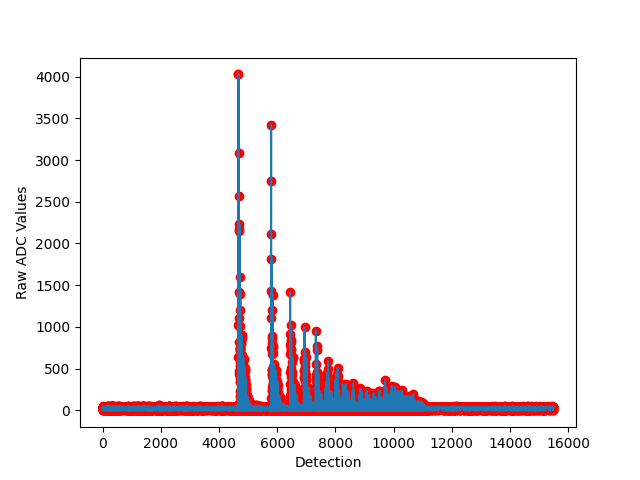
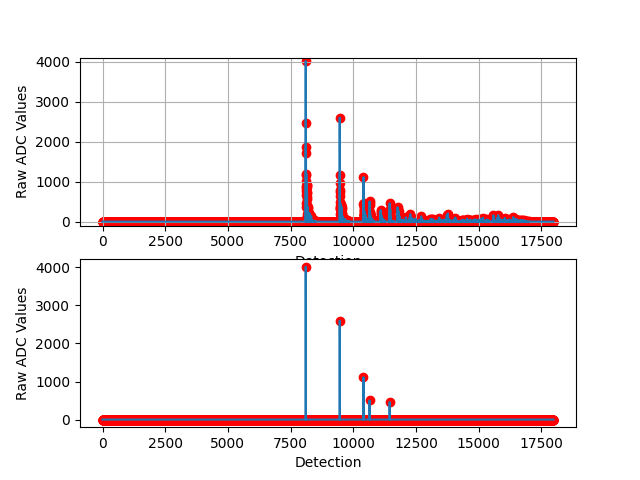
Update

diff --git a/main.py b/main.py
@@ -14,23 +14,18 @@ SAMPLE_RATE = 5062
 SAMPLING_RATE = SAMPLE_RATE/TIME  # Number of samples / Time Period 
 
 # FREQUENCY THRESHOLD
-FREQ_THRESHOLD = 150 
+FREQ_THRESHOLD = 120 
 
 # ERASER PARAMETERS  
 # HEIGHT LENGTH   
-ERASER_H_L_PARAM_30_10 = 1 
-ERASER_H_L_PARAM_30_30 = 1 
-ERASER_H_L_PARAM_10_10 = 1 
-ERASER_H_L_PARAM_10_30 = 1 
+ERASER_HEIGHT_30 = 800
+ERASER_LENGTH_30 = 1700  
+ERASER_LENGTH_10 = 18 
 
 # COIN PARAMETERS 
 # HEIGHT LENGTH 
-COIN_H_L_PARAM_10_30 = 114
-COIN_H_L_PARAM_30_30 = 127
-COIN_H_L_PARAM_10_10 = 140
-COIN_H_L_PARAM_30_10 = 160
+COIN_HEIGHT_30 = 2000
 
-COIN_HEIGHT_30 = 2900
 PEAK_THRESHOLD = 1500 
 
 
@@ -239,36 +234,47 @@ def visualize_data(list,material,height,length) :
     plt.show()
     # plot the raw data 
     
-def predict(freq,amp,numOfPeaks,area):
+def predict(freq,avg_amp,amp,numOfPeaks,numPeakAbove): 
     
     # if eraser  
+    print(f"Freq {freq}")
+    ratio = amp/avg_amp
     if freq < FREQ_THRESHOLD : 
         
         print("Eraser")
-        # if avg_amp < ERASER_H_L_PARAM_10_30 : 
-        #     print("ERASER: HEIGHT = 10 CM, LENGTH = 30 CM")
-            
-        # elif avg_amp > ERASER_H_L_PARAM_10_30 and avg_amp < ERASER_H_L_PARAM_30_30: 
-        #     print("ERASER: HEIGHT = 30 CM, LENGTH = 30 CM")
-            
-        # elif avg_amp > ERASER_H_L_PARAM_30_30 and avg_amp < ERASER_H_L_PARAM_10_10: 
-        #     print("ERASER: HEIGHT = 10 CM, LENGTH = 10 CM")
-            
-        # elif avg_amp > ERASER_H_L_PARAM_10_10 and avg_amp < ERASER_H_L_PARAM_30_10: 
-        #     print("ERASER: HEIGHT = 30 CM, LENGTH = 10 CM")
         
+        if amp > ERASER_HEIGHT_30 : 
+            print(amp)
+            print("30 CM Height Drop")
+            
+            if amp < ERASER_LENGTH_30 : 
+                print("30 CM Length Drop")
+            
+            else : 
+                print("10 CM Length Drop")
+                
+        # 10 cm height       
+        else : 
+            print(amp)
+            print("10 CM Height Drop")
+            if ratio < ERASER_LENGTH_10 : 
+                print("30 CM Length Drop")
+                
+            else : 
+                print("10 CM Length Drop")
+                    
     # if coin 
     else : 
         print("Coin")
-        print(f"area {area}")
         print(f"numOfPeaks {numOfPeaks}")
+        print(f"numOfPeaks {numPeakAbove}")
         
         if amp > COIN_HEIGHT_30 : 
             print(amp)
             print("30 CM Height Drop")
-            print(f"AREA x Peak = {area*numOfPeaks}")
+
             
-            if area*numOfPeaks >= 5000000 : 
+            if numPeakAbove/numOfPeaks <= 0.4 : 
                 print("30 CM Length")
                 
             else :
@@ -278,12 +284,13 @@ def predict(freq,amp,numOfPeaks,area):
         else : 
             print(amp)
             print("10 CM Height Drop")
+            
+            if numPeakAbove/numOfPeaks <= 0.5 : 
+                print("30 CM Length")
+                
+            else :
+                print("10 CM Length")
         
-        
-        
-        
-        
-
         # # Safeguard: High amplitude around 4000 is very likely LENGTH = 10
         # if amp >= 3950:
         #     if avg_amp > 145:
@@ -308,40 +315,97 @@ def predict(freq,amp,numOfPeaks,area):
         #     else:
         #         print("COIN: UNKNOWN — out of trained range")
          
-def numOfPeaks(adc_values) :
+# def numOfPeaks(adc_values) :
 
-    peak = None 
-    zero = 0 
-    peak_counter = 0 
+#     peak = None 
+#     zero = 0 
+#     peak_counter = 0 
     
-    for idx in range (len(adc_values)-1) : 
+#     for idx in range (len(adc_values)-1) : 
         
-        # Ignore the first data         
-        if idx > 0 : 
-            # If this a peak 
-            if (adc_values[idx] > adc_values[idx+1]) and (adc_values[idx] > adc_values[idx-1]) : 
+#         # Ignore the first data         
+#         if idx > 0 : 
+#             # If this a peak 
+#             if (adc_values[idx] > adc_values[idx+1]) and (adc_values[idx] > adc_values[idx-1]) : 
                 
-                # if data_count is 0 means this is the first peak 
-                if peak == None and zero == 0 : 
-                    peak = adc_values[idx]
+#                 # if data_count is 0 means this is the first peak 
+#                 if peak == None and zero == 0 : 
+#                     peak = adc_values[idx]
                     
-                    if adc_values[idx] > PEAK_THRESHOLD : 
-                        peak_counter += 1 
+#                     if adc_values[idx] > PEAK_THRESHOLD : 
+#                         peak_counter += 1 
                     
-                # not the first peak 
-                elif zero == 0 : 
-                    peak = adc_values[idx]
+#                 # not the first peak 
+#                 elif zero == 0 : 
+#                     peak = adc_values[idx]
                     
-                    if adc_values[idx] > PEAK_THRESHOLD : 
-                        peak_counter += 1 
+#                     if adc_values[idx] > PEAK_THRESHOLD : 
+#                         peak_counter += 1 
                         
-                zero = adc_values[idx]
+#                 zero = adc_values[idx]
                     
-            if adc_values[idx] == 0 : 
-                zero = 0 
+#             if adc_values[idx] == 0 : 
+#                 zero = 0 
     
-    return peak_counter
- 
+#     print(f"Number of Peak {peak_counter}") 
+#     return peak_counter
+
+# def numOfPeaksAboveThreshold(adc_values,max_amp) :
+
+#     peak = None 
+#     zero = 0 
+#     peak_counter = 0 
+    
+#     for idx in range (len(adc_values)-1) : 
+        
+#         # Ignore the first data         
+#         if idx > 0 : 
+#             # If this a peak 
+#             if (adc_values[idx] > adc_values[idx+1]) and (adc_values[idx] > adc_values[idx-1]) : 
+                
+#                 # if data_count is 0 means this is the first peak 
+#                 if peak == None and zero == 0 : 
+#                     peak = adc_values[idx]
+                    
+#                     if adc_values[idx] > PEAK_THRESHOLD : 
+#                         if adc_values[idx] > max_amp/2 : 
+#                             peak_counter += 1 
+                    
+#                 # not the first peak 
+#                 elif zero == 0 : 
+#                     peak = adc_values[idx]
+                    
+#                     if adc_values[idx] > PEAK_THRESHOLD : 
+#                         if adc_values[idx] > max_amp/2 : 
+#                             peak_counter += 1 
+                        
+#                 zero = adc_values[idx]
+                    
+#             if adc_values[idx] == 0 : 
+#                 zero = 0 
+    
+#     print(f"Number of Peak Above Thres {peak_counter}") 
+#     return peak_counter
+def numOfPeaks(adc_values) :
+    non_zero_list = [x for x in adc_values if x != 0]
+    
+    print(f"NUM PEAKS {len(non_zero_list)}")
+    return len(non_zero_list)
+    
+    
+    
+def numOfPeaksAboveThreshold(adc_values,max_amp) :
+    non_zero_list = [x for x in adc_values if x != 0]
+    counter = 0 
+    
+    for i in non_zero_list : 
+        if i >= max_amp * 0.4 : 
+            counter += 1 
+    
+    print(f"NUM OF PEAKS ABOVE Thres:{max_amp*0.4} is {counter}") 
+    return counter 
+            
+
 def areaUnderGraph(adc_values): 
     x = np.arange(0,len(adc_values),1)
     
@@ -363,7 +427,7 @@ def p2p(adc_values) :
     for idx in range(1, len(adc_copy) - 1):
         
         # If less than 500 we ignore 
-        if adc_copy[idx] <= 500:
+        if adc_copy[idx] <= 400:
             counter += 1
             adc_copy[idx] = 0 
         else:
@@ -409,7 +473,7 @@ def diff_between_peaks(adc_values) :
         diff = abs(diff)
         diff_list.append(float(diff))
         
-    print(diff_list)
+    print(f"This is {diff_list}")
     return diff_list
     
 def time_between_peaks(adc_x) : 
@@ -425,8 +489,27 @@ def time_between_peaks(adc_x) :
         time_list.append(round(time_taken,2))
         
         
-    print(time_list)
+    print(f"This is {time_list}")
     return time_list
+
+def visualize_data2(list) : 
+    # input : a list of raw data from stm  
+    # output : plot the graph to visualize the input
+    x = []
+    
+    for i in range(0, len(list)):
+        x.append(i)
+    
+    plt.plot(x, list)
+    plt.scatter(x,list,color = 'red')
+    plt.xlabel("Detection")
+    plt.ylabel("Raw ADC Values")
+    plt.savefig(f"Project 2/plots/DATA.png")
+    plt.grid()
+    plt.ylim(-100,4100)
+    # plt.show()
+    # plot the raw data   
+
 
 def main(): 
     print("START MENU")
@@ -461,18 +544,28 @@ def main():
                 # avg_amp = get_avgamp(data)
                 max_amp = highest_amp(data)
                 
-                peaks = numOfPeaks(data)
+                # peaks = numOfPeaks(data)
+                # peak_Above_threshold = numOfPeaksAboveThreshold(data,max_amp)
                 area  = areaUnderGraph(data)
                 nonZero = nonZeroData(data)
             
                 # PEAKS 
                 pk = p2p(data)
+                print(pk)
                 pk_x, pk_y = filterPK(pk)
+                
+                peaks = numOfPeaks(pk_y)
+                peak_Above_threshold = numOfPeaksAboveThreshold(pk_y,max_amp)
+                
                 peak_amp = diff_between_peaks(pk_y)
                 peak_time = time_between_peaks(pk_x)
                 
                 
-                visualize_data(data,typeOfMaterial,height,length)
+                plt.subplot(2,1,1)
+                visualize_data2(data)
+                plt.subplot(2,1,2)
+                visualize_data2(pk)
+                plt.show()
                 
                 with open("Project 2/vibration.csv", 'a', newline='') as file:
                      writer = csv.writer(file)
@@ -481,7 +574,7 @@ def main():
             elif mode == '2' : 
                 
                 print("Start gathering in", end=" ", flush=True)
-                for i in range(3, 0, -1):
+                for i in range(1, 0, -1):
                     print(f"\rStart gathering in {i}", end="", flush=True)
                     time.sleep(1)
                 
@@ -489,20 +582,26 @@ def main():
                 data = gather_data()
                 data = filter_data(data)
                 freq = get_freq(data)
+                avg_amP = get_avgamp(data)
+                max_amp = highest_amp(data)
                 
-                peaks = numOfPeaks(data)
+                # peaks = numOfPeaks(data)
                 area  = areaUnderGraph(data)
                 nonZero = nonZeroData(data)
                 
                 # PEAKS 
                 pk = p2p(data)
                 pk_x, pk_y = filterPK(pk)
+                
+                peaks = numOfPeaks(pk_y)
+                peak_Above_threshold = numOfPeaksAboveThreshold(pk_y,max_amp)
+                
                 peak_amp = diff_between_peaks(pk_y)
                 peak_time = time_between_peaks(pk_x)
                 
                 # avg_amp = get_avgamp(data)
-                max_amp = highest_amp(data)
-                predict(freq,max_amp,peaks,area)
+                
+                predict(freq,avg_amP,max_amp,peaks,peak_Above_threshold)
                 # visualize_data(data,"Pred","Pred","Pred")
                      
         elif user == 'n' or user == 'N' :
